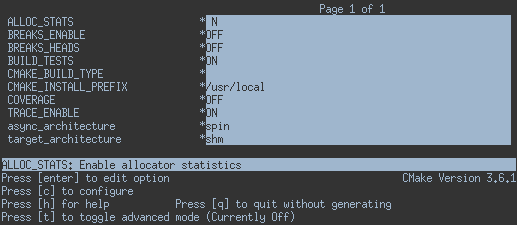
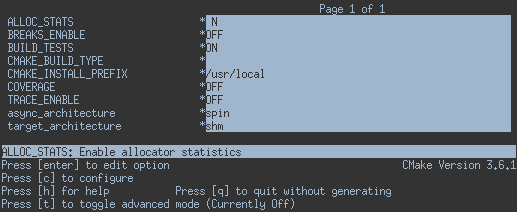
Removed BREAKS_HEAD define. Disabled tracer by default

diff --git a/src/utils/breakdown.c b/src/utils/breakdown.c
@@ -5,22 +5,19 @@
 void utils_breakdown_init_stats(utils_breakdown_stats_s * stats)
 {
 	memset(stats,0,sizeof(*stats));
-#ifdef BREAKS_HEADS
 	stats->head_ptr = stats->heads;
-#endif
 }
 
 void utils_breakdown_begin(utils_breakdown_instance_s * bdown,utils_breakdown_stats_s * stats,const char * description)
 {
 	bdown->stats = stats;
 	__sync_fetch_and_add(&(stats->samples),1);
-#ifdef BREAKS_HEADS
+
 	if(stats->head_ptr)
 	{
 		bdown->stats->desc[0] = bdown->stats->head_ptr;
 		bdown->stats->head_ptr += sprintf(bdown->stats->head_ptr," %s,",description);
 	}
-#endif
 	bdown->current_part = 0;
 	utils_timer_set(bdown->timer,start);	// Start counting
 }
@@ -31,13 +28,13 @@ void utils_breakdown_advance(utils_breakdown_instance_s * bdown,const char * des
 	utils_timer_set(bdown->timer,stop);
 	current = __sync_fetch_and_add(&(bdown->current_part),1);
 	__sync_fetch_and_add(bdown->stats->part+current,utils_timer_get_duration_ns(bdown->timer));
-#ifdef BREAKS_HEADS
+
 	if(bdown->stats->head_ptr)
 	{
 		bdown->stats->desc[current+1] = bdown->stats->head_ptr;
 		bdown->stats->head_ptr += sprintf(bdown->stats->head_ptr," %s,",description);
 	}
-#endif
+
 	// Pick up right where we left of
 	utils_timer_set_raw(bdown->timer,start,utils_timer_get_raw(bdown->timer,stop));
 }
@@ -48,9 +45,7 @@ void utils_breakdown_end(utils_breakdown_instance_s * bdown)
 	utils_timer_set(bdown->timer,stop);
 	current = __sync_fetch_and_add(&(bdown->current_part),1);
 	__sync_fetch_and_add(bdown->stats->part+current,utils_timer_get_duration_ns(bdown->timer));
-#ifdef BREAKS_HEADS
 	bdown->stats->head_ptr = 0;
-#endif
 }
 
 void utils_breakdown_write(const char *file,vine_accel_type_e type,const char * description,utils_breakdown_stats_s * stats)
@@ -61,13 +56,13 @@ void utils_breakdown_write(const char *file,vine_accel_type_e type,const char * 
 
 	if(!stats->samples)
 		return; /* Do not write anything  */
-#ifdef BREAKS_HEADS
+
 	snprintf(ffile,1024,"%s.hdr",file);
 	f = fopen(ffile,"a");
 	// Print header and count parts
 	fprintf(f,"TYPE, PROC, SAMPLES,%s\n",stats->heads);
 	fclose(f);
-#endif
+
 	snprintf(ffile,1024,"%s.brk",file);
 	f = fopen(ffile,"a");
 	fprintf(f,"%d,%s,%llu",type,description,stats->samples);

diff --git a/src/utils/breakdown.h b/src/utils/breakdown.h
@@ -11,11 +11,9 @@
 typedef struct{
 	unsigned long long samples;					//< Number of breakdowns
 	unsigned long long part[BREAKDOWN_PARTS];	//< Duration in ns of each part
-#ifdef BREAKS_HEADS
 	const char * desc[BREAKDOWN_PARTS];			//< Description fo each part
 	char heads[BREAKDOWN_PARTS*64];				//< Storage for headers.
 	char * head_ptr;							//< Header pointer.
-#endif
 }utils_breakdown_stats_s __attribute__((aligned(64)));
 
 #define UTILS_BREAKDOWN_STATS(name) utils_breakdown_stats_s name

diff --git a/README.md b/README.md
@@ -49,7 +49,6 @@ To configure using, on the build folder you type:
 |--------------------------------------------------|--------------------------------|
 |-DALLOC_STATS=ON&#124;OFF                         | Enable Allocator Statistics    |
 |-DBREAKS_ENABLE                                   | Enable breakdown reporting     |
-|-DBREAKS_HEADS                                    | Enable breakdown hdr files     |
 |-DBUILD_TESTS=ON&#124;OFF                         | Build unit tests               |
 |-DCOVERAGE=ON&#124;OFF                            | Enable gcov coverage           |
 |-DTRACE_ENABLE=ON&#124;OFF                        | Enable trace file creation     |
